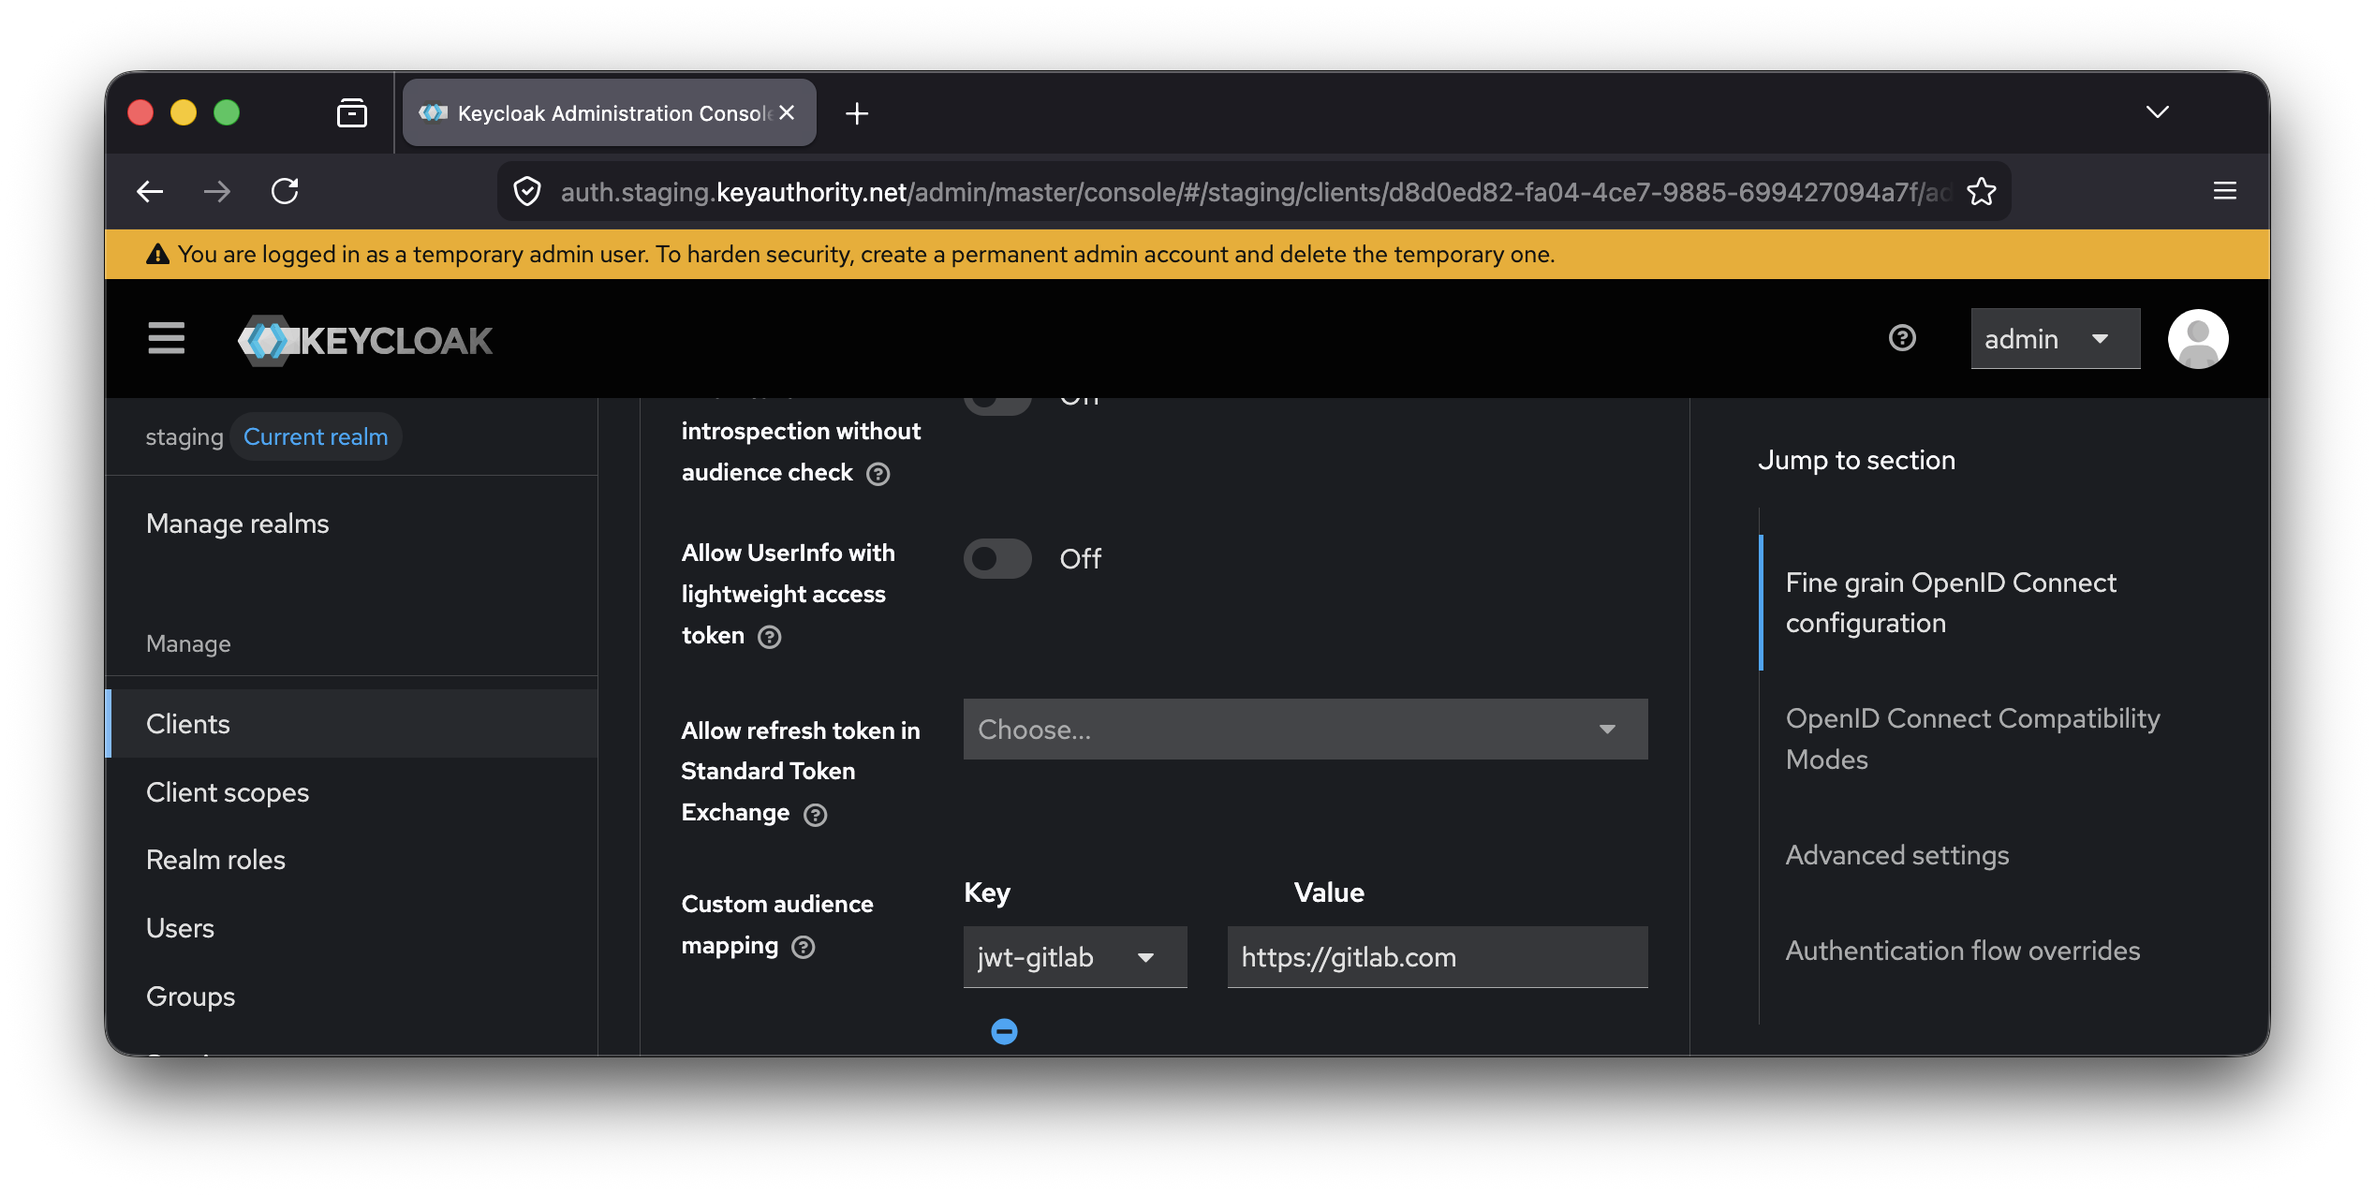
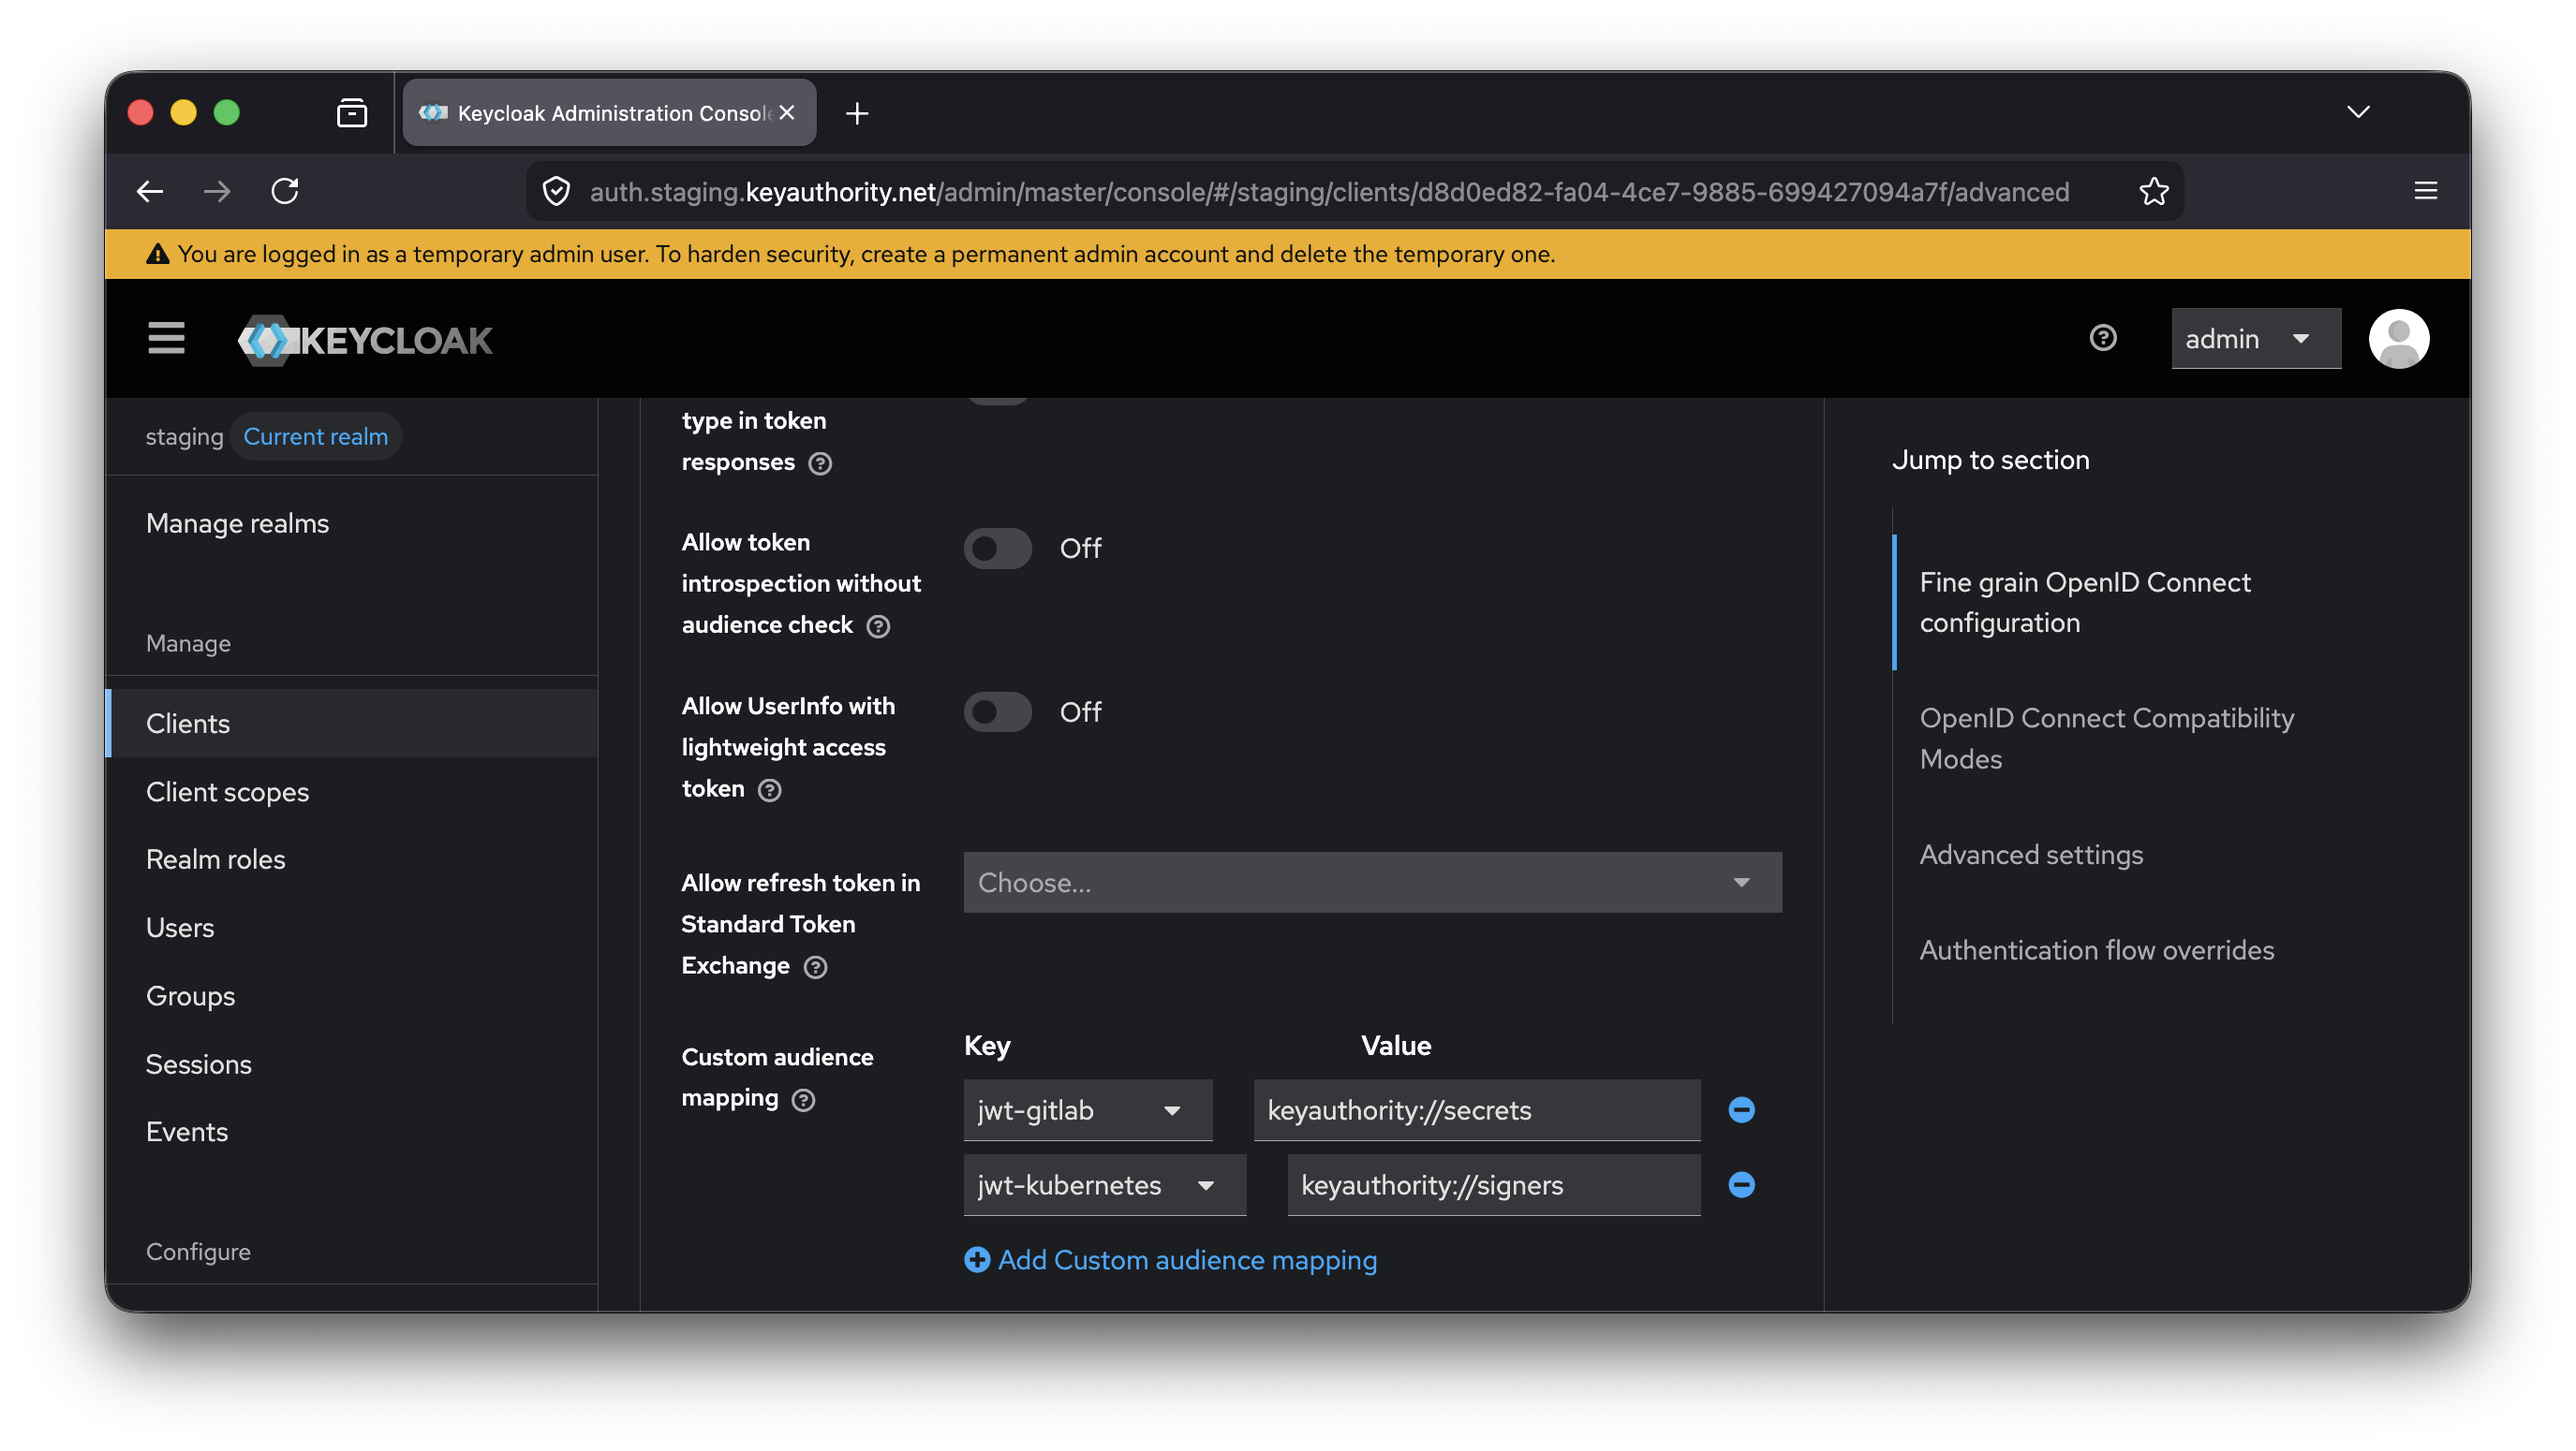
Bump Java & deps, refine docs and frontend
Upgrade toolchain and dependencies, and clean up documentation and frontend assets.

- CI: Update .github/workflows/docker-buildx.yml to use Temurin Java 25 for the Keycloak agent build, add an informative build echo, and adjust a comment.
- Go: Bump k8s.io/kube-openapi version in backend/go.mod and update backend/go.sum accordingly.
- Frontend: Minor dependency bumps in frontend/package-lock.json (autoprefixer, electron-to-chromium, node-releases), replace frontend/public/exchange-client-config2.png, and multiple content/UX edits in frontend/src/components/Docs.js to clarify JWKS handling, simplify secret examples, add Keycloak identity-provider/audience requirements for GitLab and Kubernetes integrations, adjust GitLab audience to keyauthority://secrets, and remove/replace a large Vault token cron example.
- Keycloak agent: Raise Maven compiler target to Java 21 and set maven.compiler.release in keycloak/agent/pom.xml.

These changes address compatibility with newer Java, update indirect k8s deps, and improve documentation clarity for authentication and secret usage scenarios.

diff --git a/frontend/src/components/Docs.js b/frontend/src/components/Docs.js
@@ -326,9 +326,9 @@ export function Administration() {
         </Alert.Heading>
         If you are configuring the local Kubernetes cluster as an Identity
         Provider, set the JWKS URL to{" "}
-        <code>{`${apiRootUrl}/v1/oidc/jwks/kubernetes`}</code>, which is handled
-        by KeyAuthority. This is because the Kubernetes API server's JWKS
-        endpoint requires authentication.
+        <code>{`${apiRootUrl}/v1/oidc/jwks/kubernetes`}</code>. This endpoint is
+        handled by the KeyAuthority backend, which performs the authenticated
+        JWKS retrieval and exposes the JWKS to Keycloak unauthenticated.
       </Alert>
 
       <Alert variant="warning" className="mt-4">
@@ -407,42 +407,23 @@ export function UseSecrets() {
         The following examples demonstrate how secrets stored in KeyAuthority
         can be seamlessly injected into your applications and automation
         environments. Let's assume you have a script named <code>run.sh</code>{" "}
-        that performs database operations using credentials stored in a secret.
-        Below is a simplified version of that script:
-      </p>
-
-      {prettyCode(
-        "bash",
-        `#!/bin/bash
-
-# Connect to PostgreSQL using environment variables
-psql -h "postgres.local" -p "5432" -U "$PGUSER" -d "mydb" <<EOF
-UPDATE events SET status='processing' WHERE status='pending';
-EOF
-
-# Continue with additional logic, e.g. process pending events
-...`,
-      )}
-
-      <p>
-        Let's also assume that the required PostgreSQL credentials{" "}
-        <code>{JSON.stringify(sampleSecret.data, null, 2)}</code> are stored in
-        the secret <code>{sampleSecret.name}</code>. KeyAuthority supports
-        several ways to securely expose these secrets to applications:
+        that performs database operations using the credentials{" "}
+        <code>{JSON.stringify(sampleSecret.data, null, 2)}</code>. KeyAuthority
+        supports several ways to securely expose these secrets to applications:
       </p>
 
       <ul>
         <li>
           <strong>Shell</strong>: Source secrets dynamically at runtime using{" "}
-          <code>curl</code>.
+          <code>curl</code>
         </li>
         <li>
           <strong>GitLab Runners</strong>: Use the Vault integration to expose
-          secrets as environment variables in CI/CD jobs.
+          secrets as environment variables in CI/CD jobs
         </li>
         <li>
           <strong>Kubernetes Pods</strong>: Inject secrets into pods using
-          annotations and Vault Agent sidecars.
+          annotations and Vault Agent sidecars
         </li>
       </ul>
 
@@ -728,28 +709,44 @@ export const signerUsageExample = (signerName, apiRootUrl) => {
       <h6>Option 1: Authenticating with Kubernetes Service Account Token</h6>
 
       {vaultK8sSAAuthIssuerExample(signerName, apiRootUrl)}
+      <p>The following dependencies are required:</p>
+      <ul>
+        <li>
+          A user must exist in Keycloak with the permissions to access the
+          signer, and the user must have an{" "}
+          <strong>Identity provider link</strong> configured with Kubernetes as
+          the provider and{" "}
+          <code>system:serviceaccount:&lt;NAMESPACE&gt;:{signerName}-sa</code>{" "}
+          as User ID. This allows Keycloak to associate the Kubernetes-issued
+          token with an existing user, enabling access based on the Kubernetes
+          namespace and service account context.
+        </li>
+        <li>
+          A <strong>Custom audience mapping</strong> must be configured in the
+          Keycloak client to accept Kubernetes tokens with an audience claim set
+          to <code>keyauthority://signers</code>.
+        </li>
+      </ul>
+
+      <p>
+        Check the <Link to="/docs/admin">administration docs</Link> for more
+        details on how to set this up.
+      </p>
+
+      {/*<Alert variant="info" className="mt-4">
+        <Alert.Heading className="fs-6 fw-bold">
+          <i className="bi bi-info-circle-fill me-1"></i> Tip
+        </Alert.Heading>
+        The token subject (sub) in Kubernetes tokens is unique for each service
+        account, and therefore each service account needs to be linked to a user
+        in Keycloak. Hence, you can use a single service account for multiple
+        signers, allowing you to manage access for those signers with a single
+        Keycloak user.
+      </Alert>*/}
 
       <h6>Option 2: Authenticating with Username and Password</h6>
 
       {vaultAppRoleIssuerExample(signerName, apiRootUrl)}
-
-      {/* <h6>Authenticating with Kubernetes Tokens from Cron Job</h6> */}
-
-      {/* {vaultK8sTokenAuthIssuerExample(signerName, apiRootUrl)} */}
-
-      <p>
-        A user must exist in Keycloak with the permissions to access the signer,
-        and the user must have an <strong>Identity provider link</strong>{" "}
-        configured with Kubernetes as the provider and User ID set to{" "}
-        <code>system:serviceaccount:my-namespace:{signerName}-sa</code> where{" "}
-        <code>my-namespace</code> is the namespace where the service account{" "}
-        <code>{signerName}-sa</code> resides. This allows Keycloak to associate
-        the Kubernetes-issued token with an existing user, enabling secure
-        access to the signer based on the Kubernetes namespace and service
-        account context. Check the{" "}
-        <Link to="/docs/admin">administration docs</Link> for more details on
-        how to set this up.
-      </p>
 
       <h4>Secure Application</h4>
       <p>
@@ -913,94 +910,8 @@ spec:
         role: keyauthority
         mountPath: /v1/auth/jwt
         serviceAccountRef:
-          name: ${signerName}-sa`,
-  );
-}
-
-function vaultK8sTokenAuthIssuerExample(signerName, apiRootUrl) {
-  return prettyCode(
-    "yaml",
-    `# Role to allow creating secrets
-apiVersion: rbac.authorization.k8s.io/v1
-kind: Role
-metadata:
-  name: ${signerName}-role
-rules:
-  - apiGroups: ['']
-    resources: ['serviceaccounts/token']
-    resourceNames: ['${signerName}-sa']
-    verbs: ['create']
-  - apiGroups: ['']
-    resources: ['secrets']
-    verbs: ['create']
-  - apiGroups: ['']
-    resources: ['secrets']
-    resourceNames: ['${signerName}-token']
-    verbs: ['get', 'update', 'patch']
----
-# RoleBinding to bind the Role to ServiceAccount
-apiVersion: rbac.authorization.k8s.io/v1
-kind: RoleBinding
-metadata:
-  name: ${signerName}-role-binding
-subjects:
-  - kind: ServiceAccount
-    name: ${signerName}-sa
-roleRef:
-  apiGroup: rbac.authorization.k8s.io
-  kind: Role
-  name: ${signerName}-role
----
-# ServiceAccount for the cronjob
-apiVersion: v1
-kind: ServiceAccount
-metadata:
-  name: ${signerName}-sa
----
-# CronJob token rotator: creates single-audience token and stores in Secret
-apiVersion: batch/v1
-kind: CronJob
-metadata:
-  name: ${signerName}-token-rotator
-spec:
-  schedule: "*/10 * * * *" # rotate every 10 minutes
-  concurrencyPolicy: Forbid
-  successfulJobsHistoryLimit: 1
-  failedJobsHistoryLimit: 3
-  jobTemplate:
-    spec:
-      template:
-        spec:
-          serviceAccountName: ${signerName}-sa
-          restartPolicy: OnFailure
-          containers:
-            - name: rotate
-              image: alpine/kubectl:latest
-              command: ["/bin/sh", "-ec"]
-              args:
-                - |
-                  NS="$(cat /var/run/secrets/kubernetes.io/serviceaccount/namespace)"
-                  AUD="${apiRootUrl}" # must match the audience of the IdP (Kubernetes) token
-                  TOKEN="$(kubectl -n "$NS" create token ${signerName}-sa --audience "$AUD" --duration=1h)"
-                  kubectl -n "$NS" create secret generic ${signerName}-token --from-literal=token="$TOKEN" --dry-run=client -o yaml | kubectl -n "$NS" apply -f -
----
-# Vault issuer using token authentication
-apiVersion: cert-manager.io/v1
-kind: Issuer
-metadata:
-  name: ${signerName}
-spec:
-  vault:
-    path: signers/${signerName}/sign
-    server: "${apiRootUrl}"
-    caBundle: "..." # optional, Base64-encoded CA cert of '${apiRootUrl}'
-    auth:
-      kubernetes:
-        role: keyauthority
-        mountPath: /v1/auth/jwt
-        secretRef:
-          name: ${signerName}-token
-          key: token`,
+          name: ${signerName}-sa
+          audiences: [ "keyauthority://signers" ]`,
   );
 }
 
@@ -1052,14 +963,12 @@ function gitlabUsageYaml(secret, data, apiRootUrl) {
       return `    ${k}: \n      vault: ${secret}/${k}@secrets\n      file: false`;
     })
     .join("\n");
-  return `# project: my-group/my-project
-# branch: my-branch
-job:
+  return `job:
   variables:
     VAULT_SERVER_URL: ${apiRootUrl}
   id_tokens:
     VAULT_ID_TOKEN:
-      aud: https://gitlab.com
+      aud: keyauthority://secrets
   secrets:
 ${secretsYaml}
   script: |
@@ -1078,7 +987,6 @@ function k8sUsageYaml(secret, data) {
 kind: Pod
 metadata:
   name: my-app
-  namespace: my-namespace
   annotations:
     vault.hashicorp.com/role: keyauthority
     vault.hashicorp.com/agent-inject: 'true'
@@ -1088,7 +996,6 @@ metadata:
 ${template}
       {{ end }}
 spec:
-  serviceAccountName: my-serviceaccount
   containers:
   - name: my-app
     image: my-app:0.1.0
@@ -1114,7 +1021,7 @@ injector:
       - key: kubernetes.io/metadata.name
         operator: In
         values:
-          - my-namespace`;
+          - <POD_NAMESPACE> # replace with the namespace where your pods are running`;
 }
 
 function shellUsage(secret, apiRootUrl) {
@@ -1158,18 +1065,31 @@ export const secretUsageExamples = (secret, data, apiRootUrl) => {
 
       {prettyCode("yaml", gitlabUsageYaml(secret, data, apiRootUrl))}
 
+      <p>The following dependencies are required:</p>
+
+      <ul>
+        <li>
+          A user must exist in Keycloak with the permissions to access the
+          secret, and the user must have an{" "}
+          <strong>Identity provider link</strong> configured with GitLab as the
+          provider and{" "}
+          <code>
+            project_path:&lt;PROJECT_PATH&gt;:ref_type:branch:ref:&lt;BRANCH&gt;
+          </code>{" "}
+          as User ID. This allows Keycloak to associate the Gitlab-issued token
+          with an existing user, enabling access based on the GitLab project and
+          branch context.
+        </li>
+        <li>
+          A <strong>Custom audience mapping</strong> must be configured in the
+          Keycloak client to accept GitLab tokens with an audience claim set to{" "}
+          <code>keyauthority://secrets</code>.
+        </li>
+      </ul>
+
       <p>
-        A user must exist in Keycloak with the permissions to access the secret,
-        and the user must have an <strong>Identity provider link</strong>{" "}
-        configured with GitLab as the provider and User ID set to{" "}
-        <code>
-          project_path:my-group/my-project:ref_type:branch:ref:my-branch
-        </code>
-        . This allows Keycloak to associate the Gitlab-issued token with an
-        existing user, enabling secure access to the secret based on the GitLab
-        project and branch context. Check the{" "}
-        <Link to="/docs/admin">administration docs</Link> for more details on
-        how to set this up.
+        Check the <Link to="/docs/admin">administration docs</Link> for more
+        details on how to set this up.
       </p>
 
       <h4>Kubernetes Pods</h4>
@@ -1220,12 +1140,33 @@ helm upgrade --install injector hashicorp/vault -f values.yaml`,
 
       {prettyCode("yaml", k8sUsageYaml(secret, data))}
 
+      <p>The following dependencies are required:</p>
+
+      <ul>
+        <li>
+          A user must exist in Keycloak with the permissions to access the
+          secret, and the user must have an{" "}
+          <strong>Identity provider link</strong> configured with Kubernetes as
+          the provider and{" "}
+          <code>
+            system:serviceaccount:&lt;POD_NAMESPACE&gt;:&lt;POD_SERVICE_ACCOUNT&gt;
+          </code>{" "}
+          as User ID. This allows Keycloak to associate the Kubernetes-issued
+          token with an existing user, enabling access based on the Kubernetes
+          namespace and service account context.
+        </li>
+        <li>
+          A <strong>Custom audience mapping</strong> must be configured in the
+          Keycloak client to accept incoming Kubernetes token audiences. You can
+          parse an existing token and extract an audience claim from it, or
+          infer an audience from the backend DEBUG logs when JWT exchange errors
+          occur.
+        </li>
+      </ul>
+
       <p>
-        Similar to GitLab, it is required that a user exists in Keycloak with
-        the permissions to access the secret, and that the user has an{" "}
-        <strong>Identity provider link</strong> configured with Kubernetes as
-        the provider and User ID set to{" "}
-        <code>system:serviceaccount:my-namespace:my-serviceaccount</code>.
+        Check the <Link to="/docs/admin">administration docs</Link> for more
+        details on how to set this up.
       </p>
 
       {disclaimer()}
